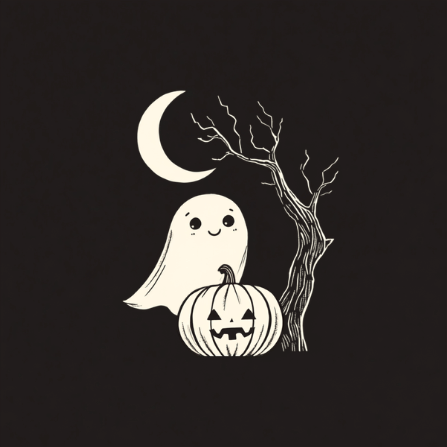
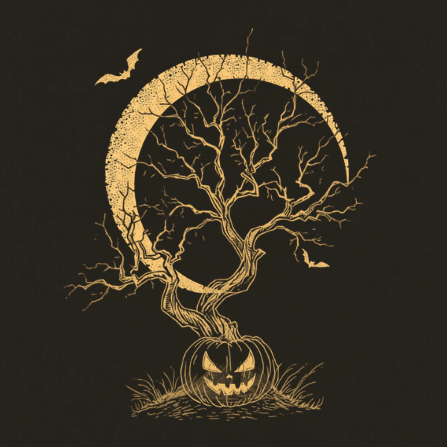
Replace the Halloween piece: gothic tree and moon, no ghost
Per direction, the cute ghost is gone. Slot 6 now carries a gnarled bare tree
rooted in a carved jack-o-lantern, silhouetted against a cracked crescent
moon with two bats -- gothic rather than whimsical, matching the register of
the other five pieces. Generated in Canva like the rest of the set, pulled
through the signed S3 fallback. Alt text updated to describe the new image.

Verified: 6/6 photos render, no horizontal overflow.

Claude-Session: https://claude.ai/code/session_018v39iDerVxaakobqu8yWS5

diff --git a/template-new/artifact.html b/template-new/artifact.html
@@ -621,7 +621,7 @@ main, .foot { position: relative; z-index: 1; }
   <section class="screen">
     <div class="reveal3">
       <h2 class="heading rv">Halloween<br />town.</h2>
[2 lines of base64/hex data omitted]
       <div class="rv d2">
         <p class="voice">Illustrative black and grey on the inner arm — the softest place to sit and the hardest place to hold a clean line.</p>
         <p class="label ember" style="margin-top:var(--spacing-18)">No. 06 · Black &amp; grey · illustrative</p>

diff --git a/template-new/index.html b/template-new/index.html
@@ -636,7 +636,7 @@ main, .foot { position: relative; z-index: 1; }
   <section class="screen">
     <div class="reveal3">
       <h2 class="heading rv">Halloween<br />town.</h2>
[2 lines of base64/hex data omitted]
       <div class="rv d2">
         <p class="voice">Illustrative black and grey on the inner arm — the softest place to sit and the hardest place to hold a clean line.</p>
         <p class="label ember" style="margin-top:var(--spacing-18)">No. 06 · Black &amp; grey · illustrative</p>

diff --git a/template-new/build.py b/template-new/build.py
@@ -258,7 +258,7 @@ TILE_FALLBACK = [
     ("__MOTIF_MOTH__", "Lion framed by honeycomb geometry and mandala"),
     ("__MOTIF_ROSE__", "Garita watchtower, coqui and hibiscus sleeve"),
     ("__MOTIF_EYE__", "Portrait with crown of thorns, two red lines"),
-    ("__MOTIF_SWALLOW__", "Crescent moon, ghost and jack-o-lantern, illustrative"),
+    ("__MOTIF_SWALLOW__", "Bare tree rooted in a jack-o-lantern before a crescent moon"),
 ]
 
 
